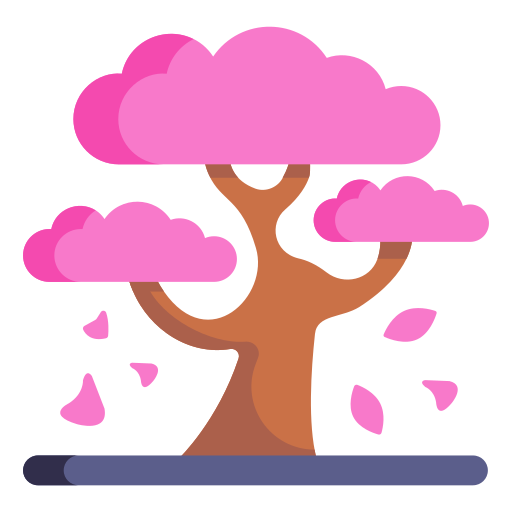
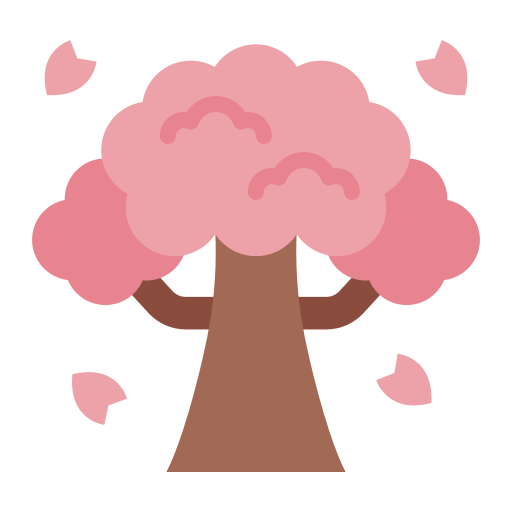
[UPD] main page && about me section
change the icon of the sakura tree I was using, as well as the placement of this latter on the page. Change the text in the 'about me' section to add some things

diff --git a/src/app/page.tsx b/src/app/page.tsx
@@ -1,12 +1,5 @@
 "use client";
 
-import { FontAwesomeIcon } from '@fortawesome/react-fontawesome';
-import { faEnvelope, faFileArrowDown } from '@fortawesome/free-solid-svg-icons';
-import { faLinkedin } from '@fortawesome/free-brands-svg-icons';
-
-
-import SectionTitle from '@/components/sectionTitle';
-import ProjectCard from '../components/projectCard';
 import Footer from '@/app/footer'
 import AboutSection from '@/components/aboutSection';
 import ProjectSection from '@/components/projectSection';
@@ -74,23 +67,23 @@ export default function Home() {
     {/* Left Text Content */}
     <div className="text-center space-y-4 md:w-1/2">
       <h1 className="text-6xl md:text-8xl font-bold text-red-600 mb-4 animate-fade-in">
-        雫 <span className="text-4xl md:text-6xl">(Shizuku)</span>
+      <span className="text-4xl md:text-6xl">Killian Trouvé</span>
       </h1>
-      <h2 className="text-3xl md:text-4xl font-semibold text-gray-800">
-        Killian Trouvé
-      </h2>
       <p className="text-xl md:text-2xl text-gray-600 mt-2">
         Developer & Anime Enthusiast
       </p>
     </div>
 
     {/* Right Visual Elements */}
-    <div className="relative md:w-1/2 flex justify-center items-center h-[500px]">
+    <div className="relative md:w-1/2 flex justify-right items-right h-[500px]">
       {/* Sakura Tree Icon */}
-      <div className="absolute top-0 right-0 transform translate-x-16 -translate-y-16">
-        <img src="/sakura-tree.png" alt="Sakura Tree" className="w-64" />
+      <div className="absolute top-0 right-0 -translate-y-20 translate-x-8 md:translate-x-1 z-10">
+        <img
+          src="/sakura-tree.png"
+          alt="Sakura Tree"
+          className="w-[600px] md:w-[800px] opacity-80"
+        />
       </div>
-
       {/* Profile Image */}
       <div className="absolute bottom-0 transform translate-y-16 z-10">
         <div className="relative w-48 h-48 rounded-full overflow-hidden border-4 border-pink-200 hover:border-red-300 transition-all duration-300 cursor-pointer hover:scale-105 hover:shadow-xl">

diff --git a/src/components/aboutSection.tsx b/src/components/aboutSection.tsx
@@ -18,9 +18,11 @@ export default function AboutSection(aboutSectionProps: AboutSectionProps) {
                 <div className={`mt-8 transition-opacity duration-500 ${aboutSectionProps.aboutInView ? 'opacity-100' : 'opacity-0'}`}>
                 <p className="text-lg text-gray-700 leading-relaxed">
                     こんにちは！ I'm Killian, a developer with a passion for Japanese culture and
-                    anime. With 3+ years of experience in web development, I combine technical expertise
-                    with creative design to build immersive digital experiences. When I'm not coding,
-                    you'll find me watching the latest seasonal anime or practicing Japanese.
+                    anime. With 3+ years of experience in development, I specialize in creating efficient,
+                    scalable, and automated solutions that deliver exceptional results. When I'm not coding,
+                    you'll find me watching the latest seasonal anime or practicing Japanese. I'm always excited to collaborate on innovative projects and bring creative ideas to life.
+                    If you're interested in working together or just want to chat about tech and anime,
+                    feel free to reach out!
                 </p>
                 <div className="mt-8 flex flex-col sm:flex-row gap-24 justify-center">
                     <a
